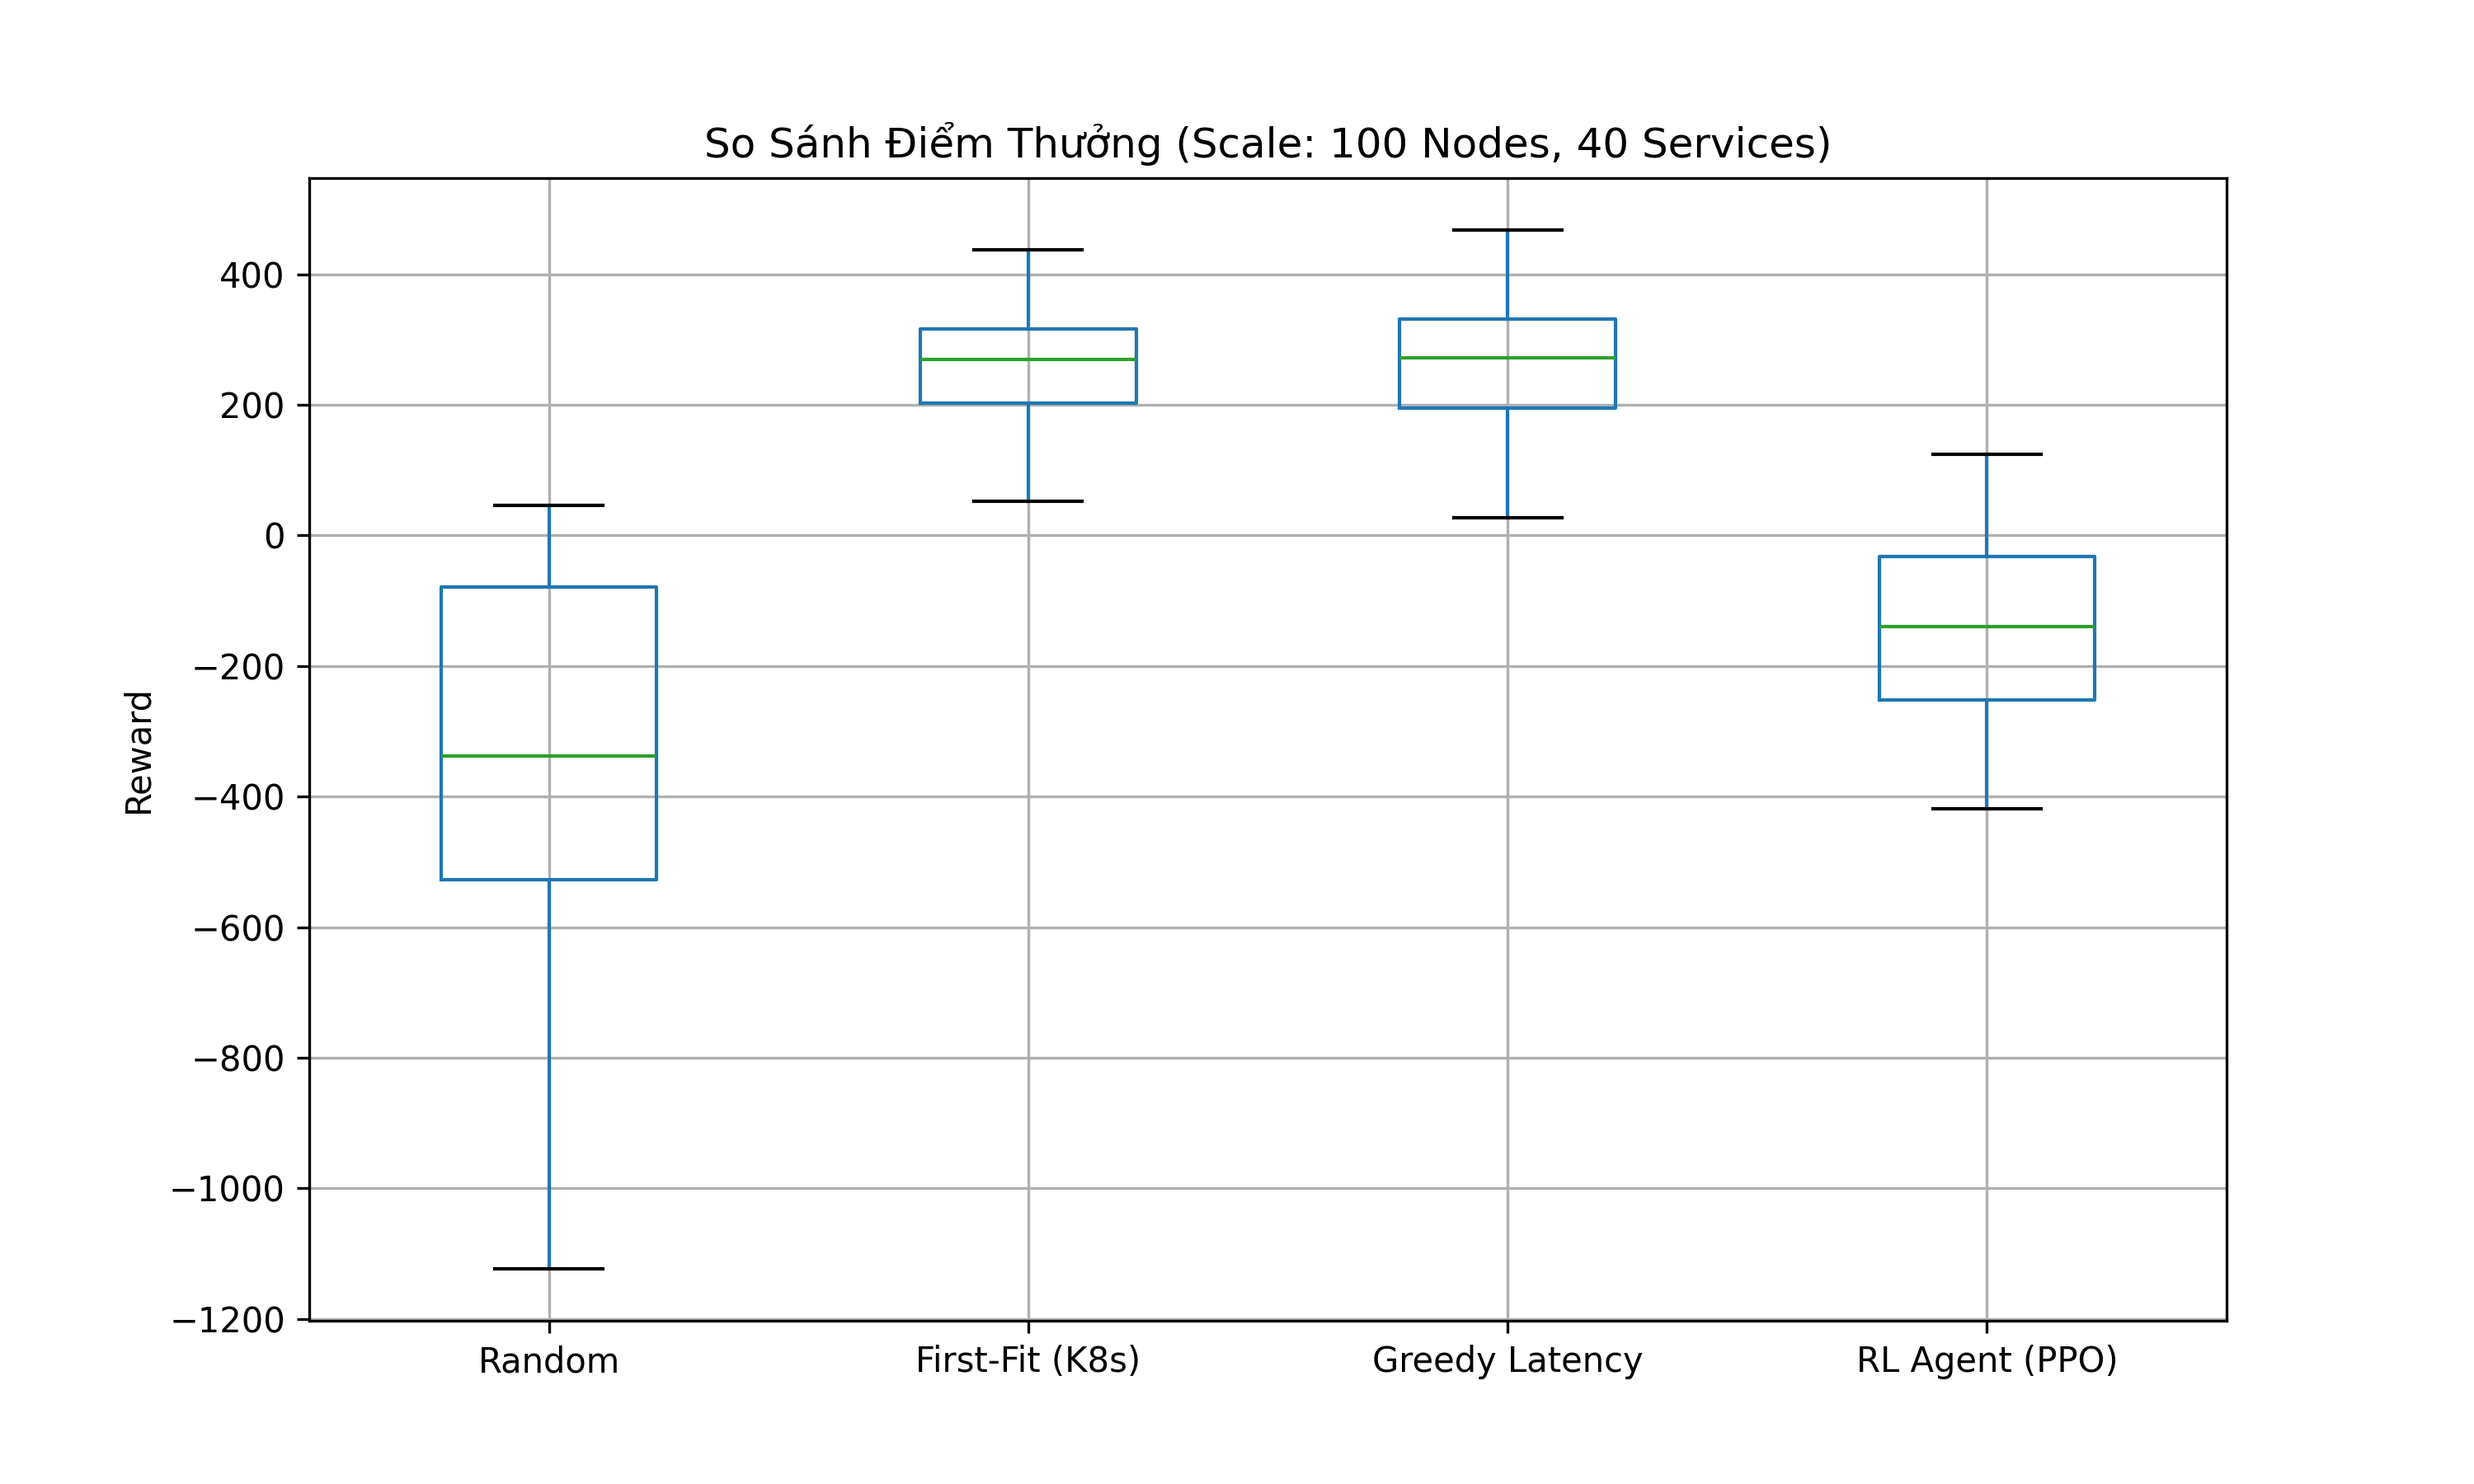
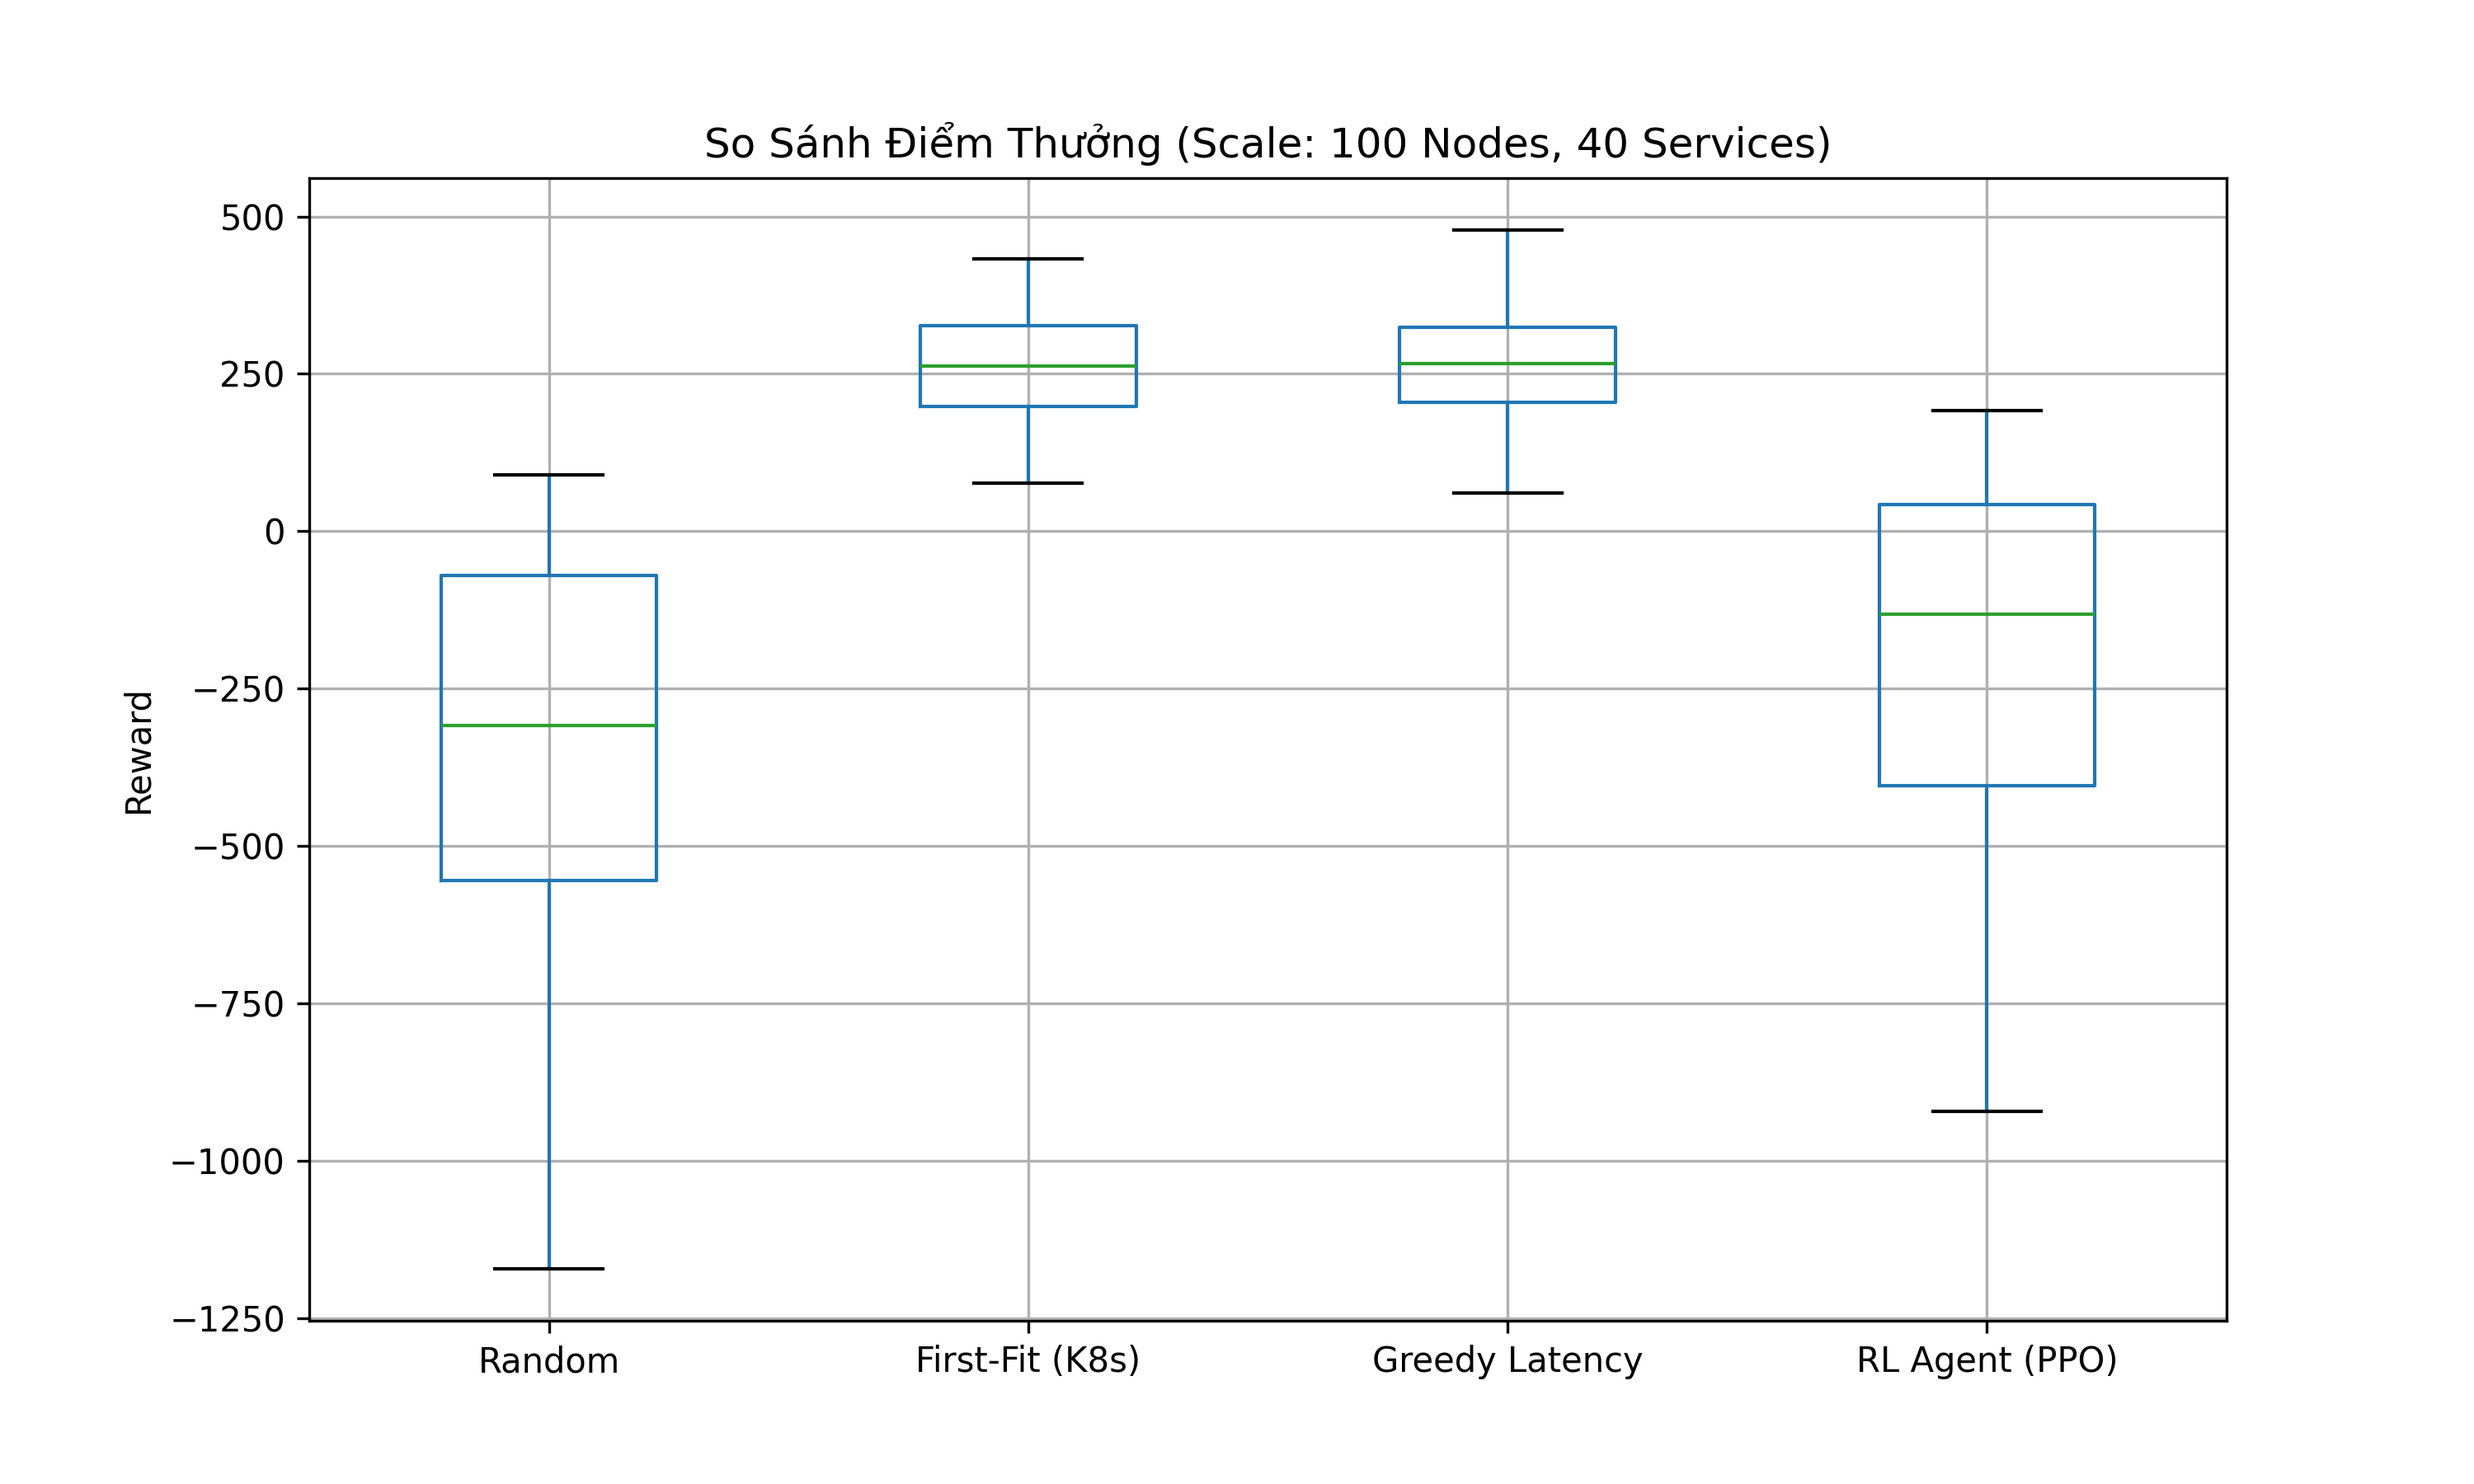
fix code 2

diff --git a/src/demo.py b/src/demo.py
@@ -1,0 +1,74 @@
+import numpy as np
+from sb3_contrib import MaskablePPO as PPO
+from envs.k8s_env import ServicePlacementEnv
+
+def run_demo():
+    print("\n" + "="*90)
+    print("🚀 DEMO ĐỒ ÁN: TỐI ƯU HÓA MICROSERVICES BẰNG RL (AI SCHEDULER)")
+    print("="*90)
+
+    # 1. Khởi tạo môi trường 100 Nodes và Load bộ não AI đã train
+    env = ServicePlacementEnv(num_nodes=100, max_services=40)
+    model = PPO.load("models/production/best_model.zip")
+
+    # Đặt seed=42 cố định để lúc quay video kịch bản không bị nhảy lộn xộn
+    obs, _ = env.reset(seed=42)
+    terminated = False
+
+    print("\n[KỊCH BẢN]: KIỂM TRA TÍNH THÔNG MINH TRONG PHÂN BỔ TÀI NGUYÊN VÀ ANTI-AFFINITY")
+    print(f"{'Service ID':<12} | {'Loại Service':<18} | {'Đặt tại Node':<14} | {'Loại Node':<12} | {'Nhận xét'}")
+    print("-" * 90)
+
+    db_nodes = [] # Lưu vết các Node đã đặt Database để kiểm tra luật High Availability
+
+    total_reward = 0
+
+    while not terminated:
+        # Lấy thông tin service hiện tại từ môi trường
+        current_step = env.unwrapped.current_step
+        current_svc = env.unwrapped.sorted_services[current_step]
+        svc_type = env.unwrapped.service_types[current_svc]
+
+        # Đổi mã số thành tên cho dễ đọc trên log
+        svc_name = "Web (Cần CPU)" if svc_type == 0 else "API (General)" if svc_type == 1 else "Database (Cần RAM)"
+
+        # Lấy mặt nạ từ môi trường
+        action_masks = env.unwrapped.action_masks()
+
+        # AI ra quyết định dựa trên mặt nạ (không bao giờ chọn vào Node bị cấm)
+        action, _ = model.predict(obs, action_masks=action_masks, deterministic=True)
+        node_idx = action
+        node_type = env.unwrapped.node_types[node_idx]
+
+        node_name = "General" if node_type == 0.0 else "Compute" if node_type == 1.0 else "Memory"
+
+        # Tự động đánh giá quyết định của AI để in ra màn hình
+        status = "✅ Hợp lệ"
+            
+        # Đánh giá việc phân bổ đúng loại Node (Tối ưu phần cứng)
+        if svc_type == 0 and node_type == 1.0:
+            status = "⭐ Tối ưu (Web -> Compute)"
+        elif svc_type == 2 and node_type == 2.0:
+            status = "⭐ Tối ưu (DB -> Memory)"
+                
+        # Đánh giá luật Anti-Affinity (Không đặt chung Node cho Database)
+        if svc_type == 2:
+            if node_idx in db_nodes:
+                status = "❌ LỖI ANTI-AFFINITY" # AI đã train chuẩn sẽ không bao giờ vướng lỗi này
+            else:
+                db_nodes.append(node_idx)
+                status += " (Đảm bảo HA)"
+
+        # In log ra màn hình
+        print(f"Service {current_svc:<4} | {svc_name:<18} | Node {node_idx:<10} | {node_name:<12} | {status}")
+            
+        # Thực thi hành động và bước sang trạng thái tiếp theo
+        obs, reward, terminated, _, _ = env.step(action)
+        total_reward += reward
+
+    print("-" * 90)
+    print(f"Tổng số điểm Reward đạt được trong kịch bản này: {total_reward:.2f}")
+    print("="*90 + "\n")
+
+if __name__ == "__main__":
+    run_demo()

diff --git a/src/envs/k8s_env.py b/src/envs/k8s_env.py
@@ -77,6 +77,9 @@ class ServicePlacementEnv(gym.Env):
         self.placements = np.full(self.num_services_current, -1)
         self.current_step = 0
         
+        # Thêm biến theo dõi Database để làm Masking
+        self.node_has_db = np.zeros(self.num_nodes, dtype=bool)
+
         return self._get_obs(), {}
 
     def _get_obs(self):
@@ -121,6 +124,9 @@ class ServicePlacementEnv(gym.Env):
                 self.current_cpu[node_idx] -= cpu_req
                 self.current_ram[node_idx] -= ram_req
                 self.placements[current_svc] = node_idx
+
+                if svc_type == 2:
+                    self.node_has_db[node_idx] = True
                 
                 # 3. Tính độ trễ nhân với trọng số băng thông
                 parents = list(self.dag.predecessors(current_svc))
@@ -138,3 +144,34 @@ class ServicePlacementEnv(gym.Env):
             terminated = True
             
         return self._get_obs(), reward, terminated, False, {}
+    
+    def action_masks(self):
+        """
+        Trả về mảng boolean (num_nodes,). True = Được phép đặt, False = Cấm.
+        """
+        mask = np.ones(self.num_nodes, dtype=bool)
+        
+        # Nếu đã duyệt hết service thì trả về mask mặc định
+        if self.current_step >= len(self.sorted_services):
+            return mask
+
+        current_svc = self.sorted_services[self.current_step]
+        svc_type = self.service_types[current_svc]
+        cpu_req = self.cpu_reqs[current_svc]
+        ram_req = self.ram_reqs[current_svc]
+
+        for i in range(self.num_nodes):
+            # LUẬT 1: Cấm nếu Node không còn đủ CPU hoặc RAM
+            if self.current_cpu[i] < cpu_req or self.current_ram[i] < ram_req:
+                mask[i] = False
+            
+            # LUẬT 2: Cấm nếu là Database (type=2) mà Node đó ĐÃ CHỨA Database rồi
+            if svc_type == 2 and self.node_has_db[i]:
+                mask[i] = False
+        
+        # Cơ chế dự phòng: Nếu xui xẻo Cluster bị full 100%, tất cả đều False
+        # thì phải mở khóa lại để tránh crash thuật toán (chấp nhận cho AI bị phạt)
+        if not mask.any():
+            return np.ones(self.num_nodes, dtype=bool)
+
+        return mask

diff --git a/src/train.py b/src/train.py
@@ -1,19 +1,32 @@
 import os
 import torch
-from stable_baselines3 import PPO
-from stable_baselines3.common.callbacks import EvalCallback
+from sb3_contrib import MaskablePPO as PPO
+from sb3_contrib.common.maskable.callbacks import MaskableEvalCallback 
+from sb3_contrib.common.wrappers import ActionMasker
 from stable_baselines3.common.monitor import Monitor
 from envs.k8s_env import ServicePlacementEnv
+
+# --- THÊM HÀM NÀY: Dạy cho Trọng tài cách lấy mặt nạ từ Môi trường ---
+def mask_fn(env):
+    return env.action_masks()
 
 if __name__ == "__main__":
     os.makedirs("models/production", exist_ok=True)
     os.makedirs("logs", exist_ok=True)
 
-    # Scale lên 100 Nodes, 40 Services
-    env = Monitor(ServicePlacementEnv(num_nodes=100, max_services=40))
-    eval_env = Monitor(ServicePlacementEnv(num_nodes=100, max_services=40))
+    # --- SỰ KHÁC BIỆT NẰM Ở ĐÂY ---
+    # 1. Bọc mặt nạ cho môi trường Huấn luyện (Train)
+    base_env = ServicePlacementEnv(num_nodes=100, max_services=40)
+    masked_env = ActionMasker(base_env, mask_fn) # Trọng tài ActionMasker vào việc!
+    env = Monitor(masked_env)
 
-    eval_callback = EvalCallback(
+    # 2. Bọc mặt nạ cho môi trường Đánh giá (Evaluate)
+    base_eval_env = ServicePlacementEnv(num_nodes=100, max_services=40)
+    masked_eval_env = ActionMasker(base_eval_env, mask_fn) 
+    eval_env = Monitor(masked_eval_env)
+    # -------------------------------
+
+    eval_callback = MaskableEvalCallback(
         eval_env, 
         best_model_save_path='./models/production/',
         log_path='./logs/', 
@@ -22,7 +35,6 @@ if __name__ == "__main__":
         render=False
     )
 
-    # --- SỰ KHÁC BIỆT ---
     # Tăng độ sâu mạng Neural lên 3 lớp, mỗi lớp 512 nơ-ron
     policy_kwargs = dict(
         activation_fn=torch.nn.ReLU, 
@@ -41,7 +53,7 @@ if __name__ == "__main__":
         device="cuda" 
     )
 
-    print("Bắt đầu huấn luyện Production-Grade (Dự kiến 2.5 - 3 tiếng)...")
+    print("Bắt đầu huấn luyện Ver 2.0 (Action Masking) - Dự kiến 2.5 - 3 tiếng...")
     model.learn(total_timesteps=3_000_000, callback=eval_callback)
     
     print("Hoàn tất! Model đã lưu tại ./models/production/best_model.zip")

diff --git a/src/evaluate.py b/src/evaluate.py
@@ -2,13 +2,17 @@ import numpy as np
 import pandas as pd
 import matplotlib.pyplot as plt
 import seaborn as sns
-from stable_baselines3 import PPO
+from sb3_contrib import MaskablePPO as PPO
+from sb3_contrib.common.wrappers import ActionMasker
 from envs.k8s_env import ServicePlacementEnv
 import os
 
 os.makedirs("results", exist_ok=True)
 
-# (GIỮ NGUYÊN 3 hàm run_random, run_first_fit, run_greedy_latency, run_rl_agent như code cũ của bạn)
+# Dạy cho hệ thống cách lấy mặt nạ từ môi trường
+def mask_fn(env):
+    return env.action_masks()
+
 def run_random(env):
     obs, _ = env.reset()
     total_reward = 0
@@ -70,7 +74,10 @@ def run_rl_agent(env, model):
     total_reward = 0
     terminated = False
     while not terminated:
-        action, _ = model.predict(obs, deterministic=True)
+        # Lấy mặt nạ từ môi trường (thông qua unwrapped để xuyên qua ActionMasker)
+        action_masks = env.unwrapped.action_masks()
+        # Ép AI phải nhìn vào mặt nạ khi ra quyết định
+        action, _ = model.predict(obs, action_masks=action_masks, deterministic=True)
         obs, reward, terminated, _, _ = env.step(action)
         total_reward += reward
     return total_reward
@@ -93,7 +100,10 @@ def plot_cluster_utilization(env, title, filename):
     plt.close()
 
 if __name__ == "__main__":
-    env = ServicePlacementEnv(num_nodes=100, max_services=40) 
+    # Bọc môi trường bằng Trọng tài ActionMasker
+    base_env = ServicePlacementEnv(num_nodes=100, max_services=40) 
+    env = ActionMasker(base_env, mask_fn)
+    
     model_path = "models/production/best_model.zip"
     model = PPO.load(model_path)
     
